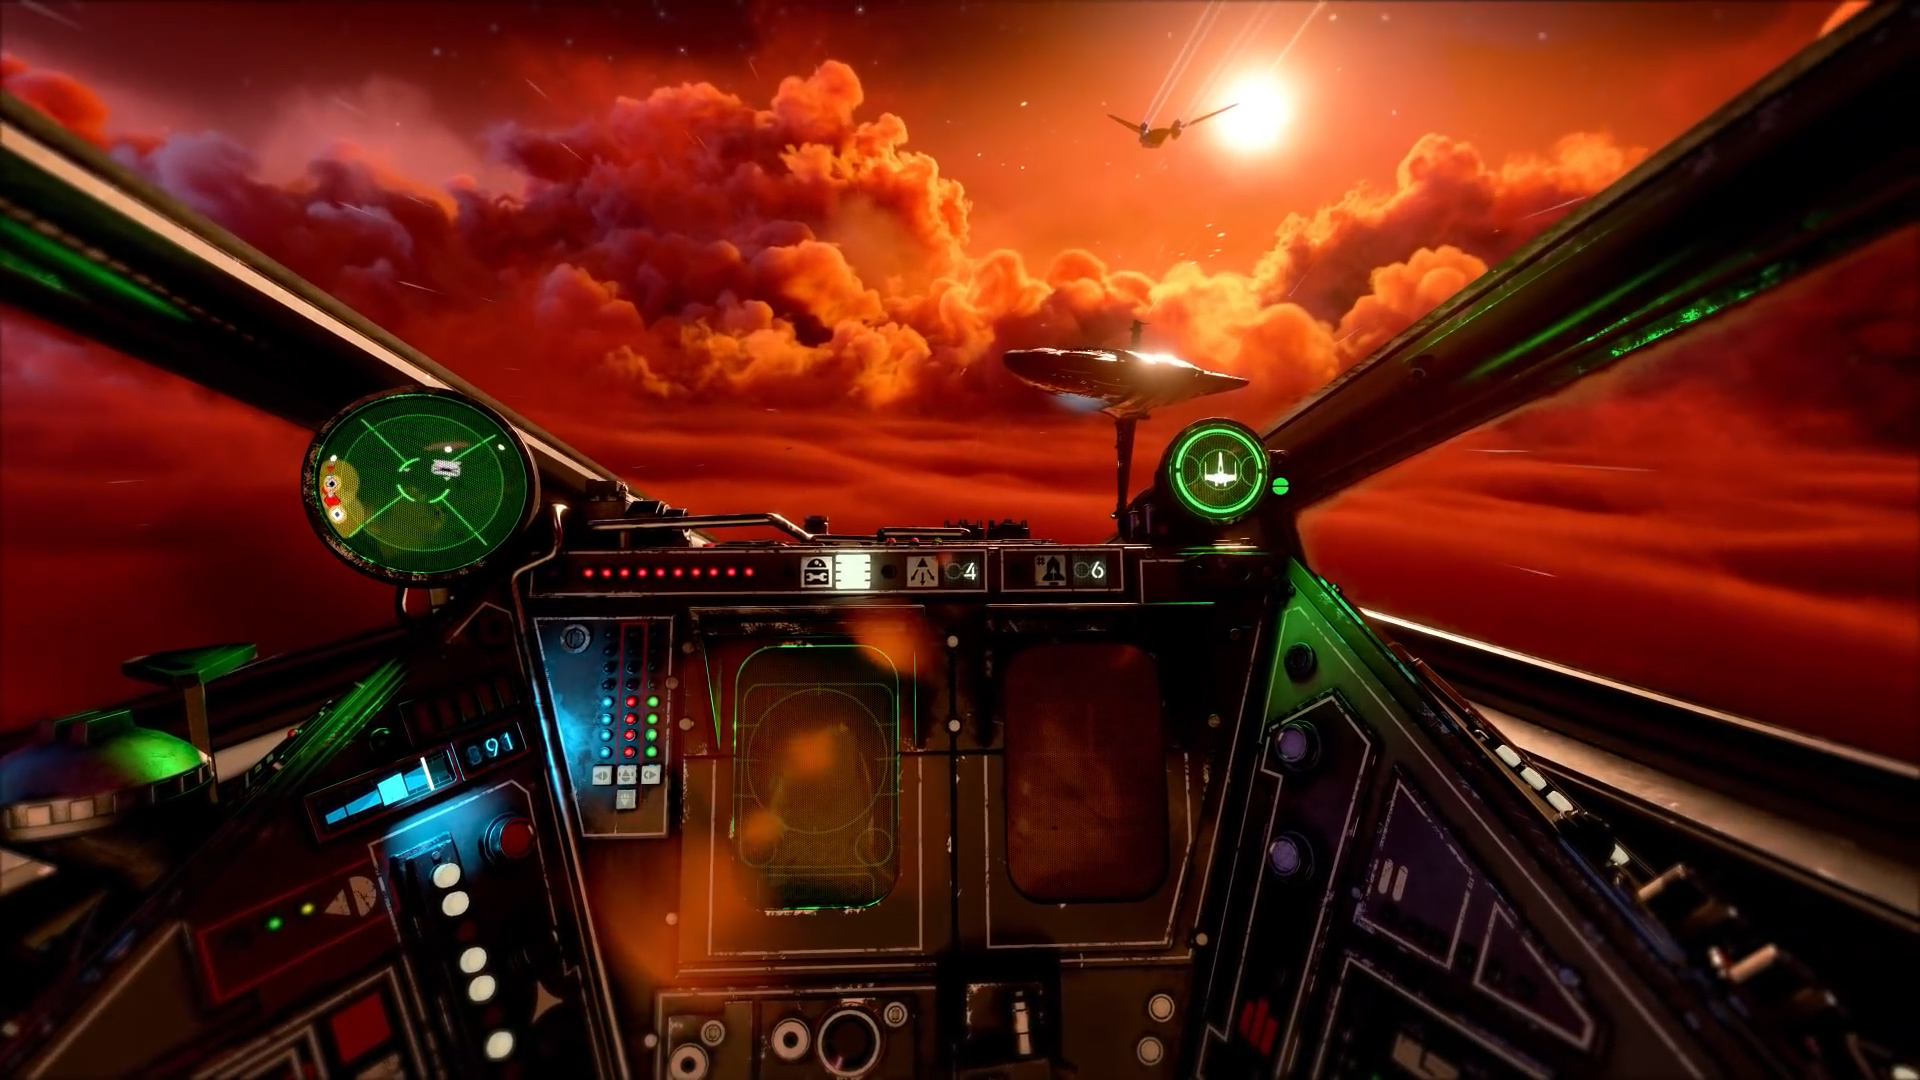
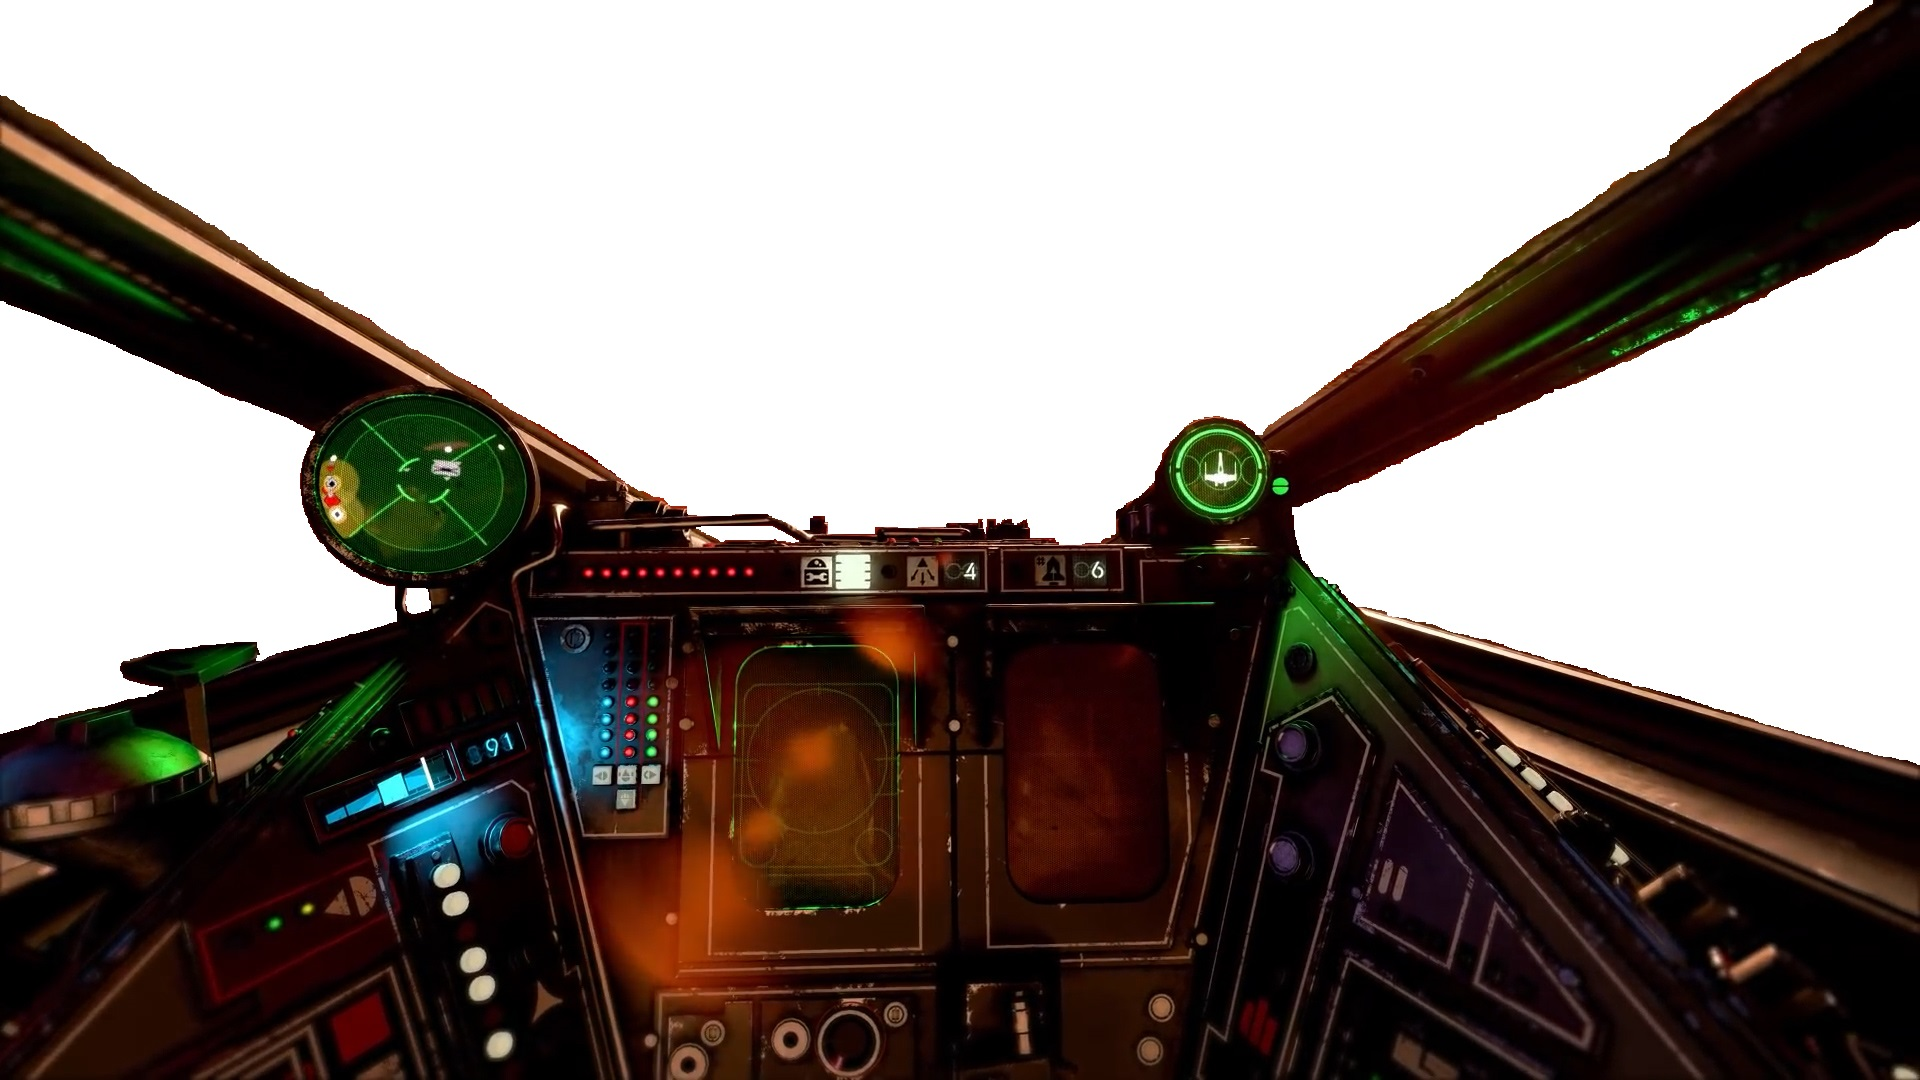
espacio imagenes

diff --git a/animaciones/espacio/espacio.css b/animaciones/espacio/espacio.css
@@ -1,8 +1,10 @@
 body{
     margin: 0;
+    background-image: url("/animaciones/imagenes/espacio3.jpg");
+ 
 }
 #fondo{
-    background-image: url("/animaciones/imagenes/nave.jpg");
+    background-image: url("/animaciones/imagenes/Background.png");
     height: 100vh;
-
+    width: 200vh;
 }
